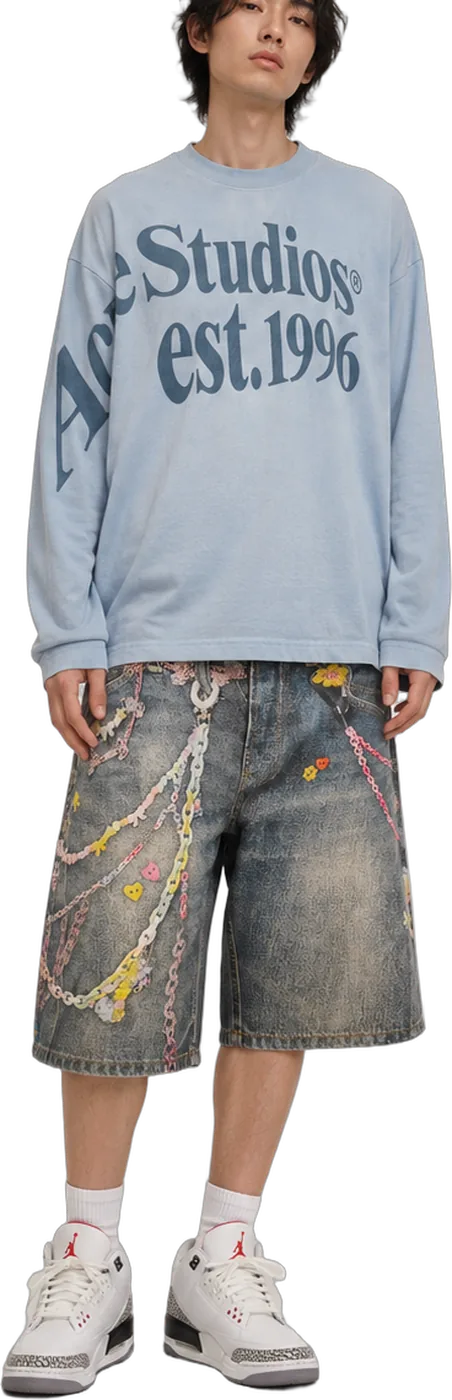
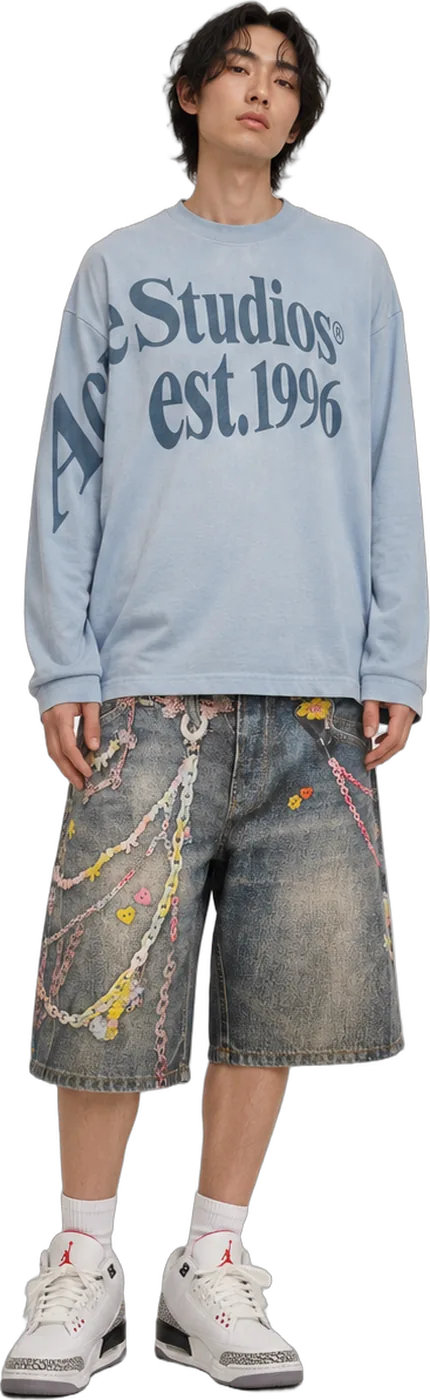
Looks : têtes entières (01, 02, 03, 08)
Les étiquettes FACE/DOS ne sont qu'en bas des planches verticales : on ne rogne
plus le haut. Leçon L-66.

Pour : rhamon

Changed region(s): [[0.0, 0.0, 1.0, 1.0], [0.6047, 0.7986, 0.6349, 0.8293]]

diff --git a/LESSONS.md b/LESSONS.md
@@ -355,3 +355,7 @@
 ### L-63 — Un merge seulement sur un « oui » sans ambiguïté
 - **Erreur :** « Continue mais on merge » a été lu comme « on merge » et #114 a été mergée, alors que Rhamone voulait dire « on ne merge pas » (11 nov. 2026). Il a fallu annuler le merge.
 - **Règle :** avant de merger, si la phrase peut se lire dans les deux sens (négation absente, faute de frappe, message court), poser une question oui/non (« Je merge la PR #N maintenant ? ») et attendre la réponse. Ne jamais merger sur une consigne glissée au milieu d'une autre demande.
+
+### L-66 — Ne jamais rogner une photo de look sans regarder où sont les étiquettes
+- **Erreur :** pour retirer les étiquettes FACE/DOS des planches verticales, 6 % ont été coupés en haut et en bas ; les étiquettes n'étaient qu'en bas, et le haut des têtes est parti (Rhamone, 15 nov. : « des têtes coupées »).
+- **Règle :** avant de rogner une planche, regarder le haut et le bas ; ne couper que la bande qui contient le texte, et vérifier sur une planche contact que chaque tête et chaque semelle sont entières.
